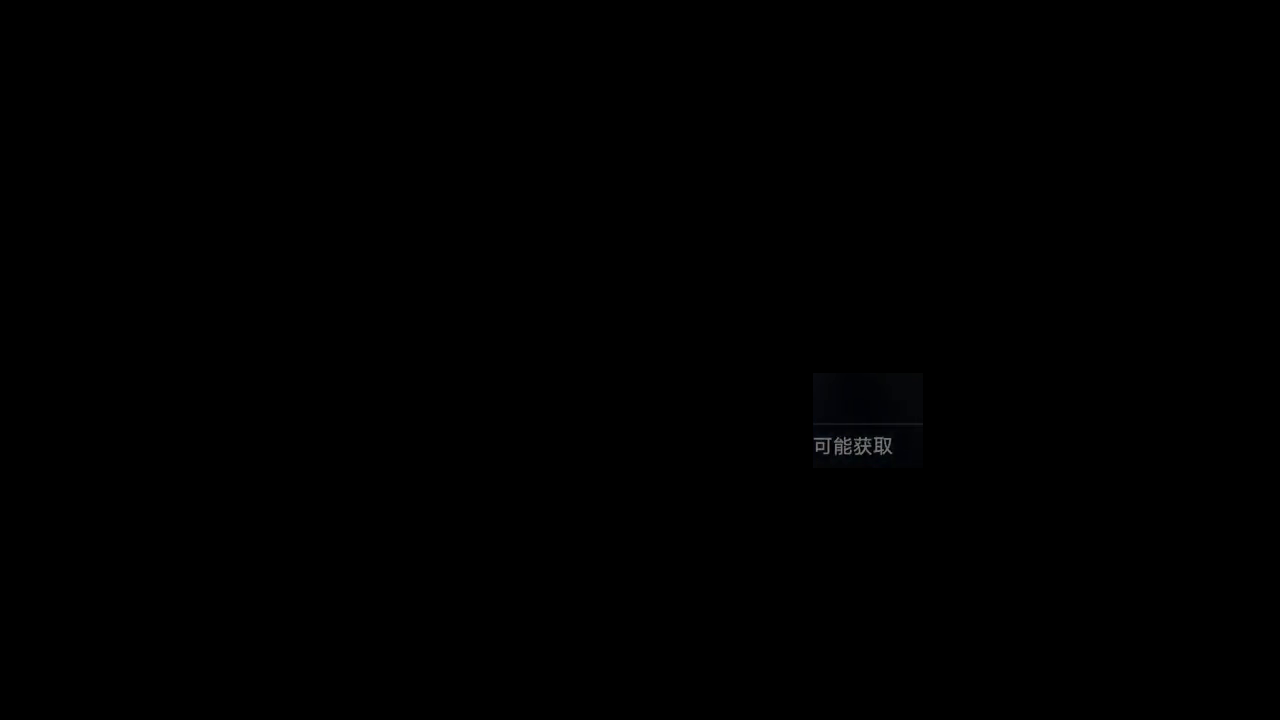
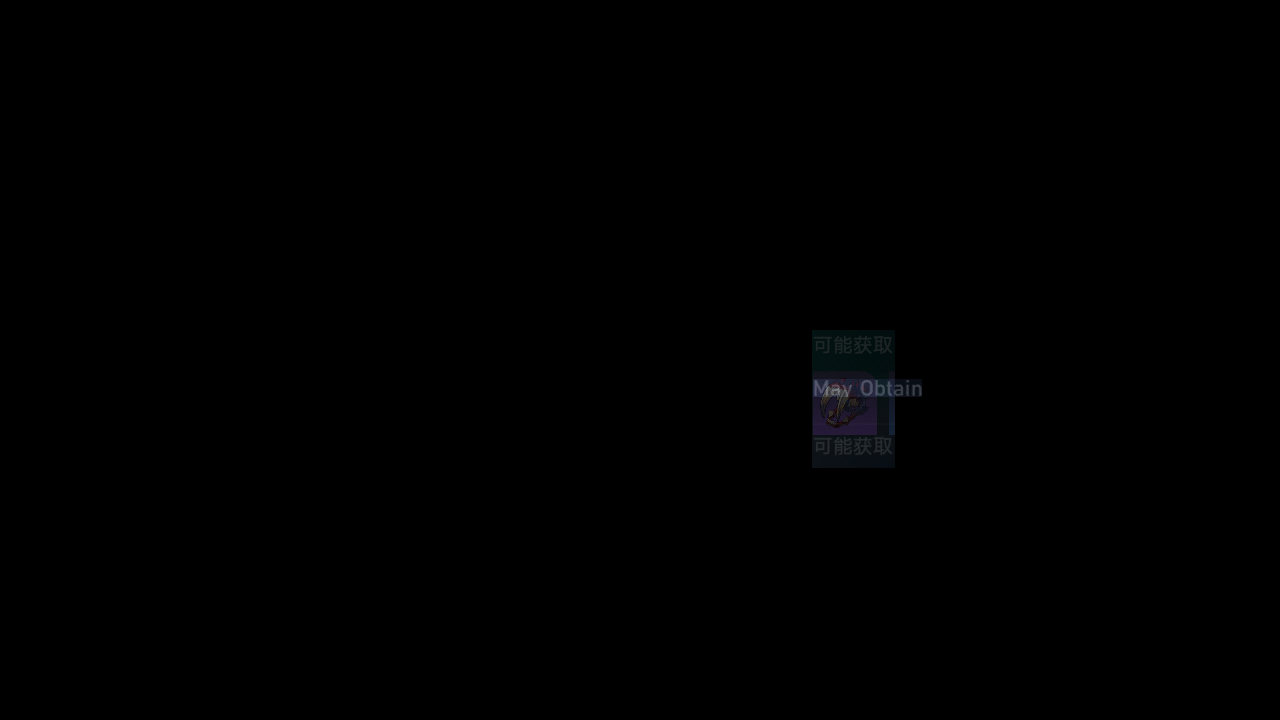
Fix: Enharge MAY_OBTAIN.SEARCH to fit the level too low notice

Changed region(s): [[0.625, 0.5194, 0.7188, 0.6417], [0.625, 0.4583, 0.7188, 0.4889]]

diff --git a/tasks/combat/assets/assets_combat_obtain.py b/tasks/combat/assets/assets_combat_obtain.py
@@ -38,14 +38,14 @@ MAY_OBTAIN = ButtonWrapper(
     cn=Button(
         file='./assets/cn/combat/obtain/MAY_OBTAIN.png',
         area=(813, 379, 893, 397),
-        search=(812, 373, 895, 468),
+        search=(812, 330, 895, 468),
         color=(63, 71, 87),
         button=(813, 379, 893, 397),
     ),
     en=Button(
         file='./assets/en/combat/obtain/MAY_OBTAIN.png',
         area=(813, 379, 922, 397),
-        search=(813, 373, 923, 468),
+        search=(812, 330, 922, 468),
         color=(53, 61, 78),
         button=(813, 379, 922, 397),
     ),
